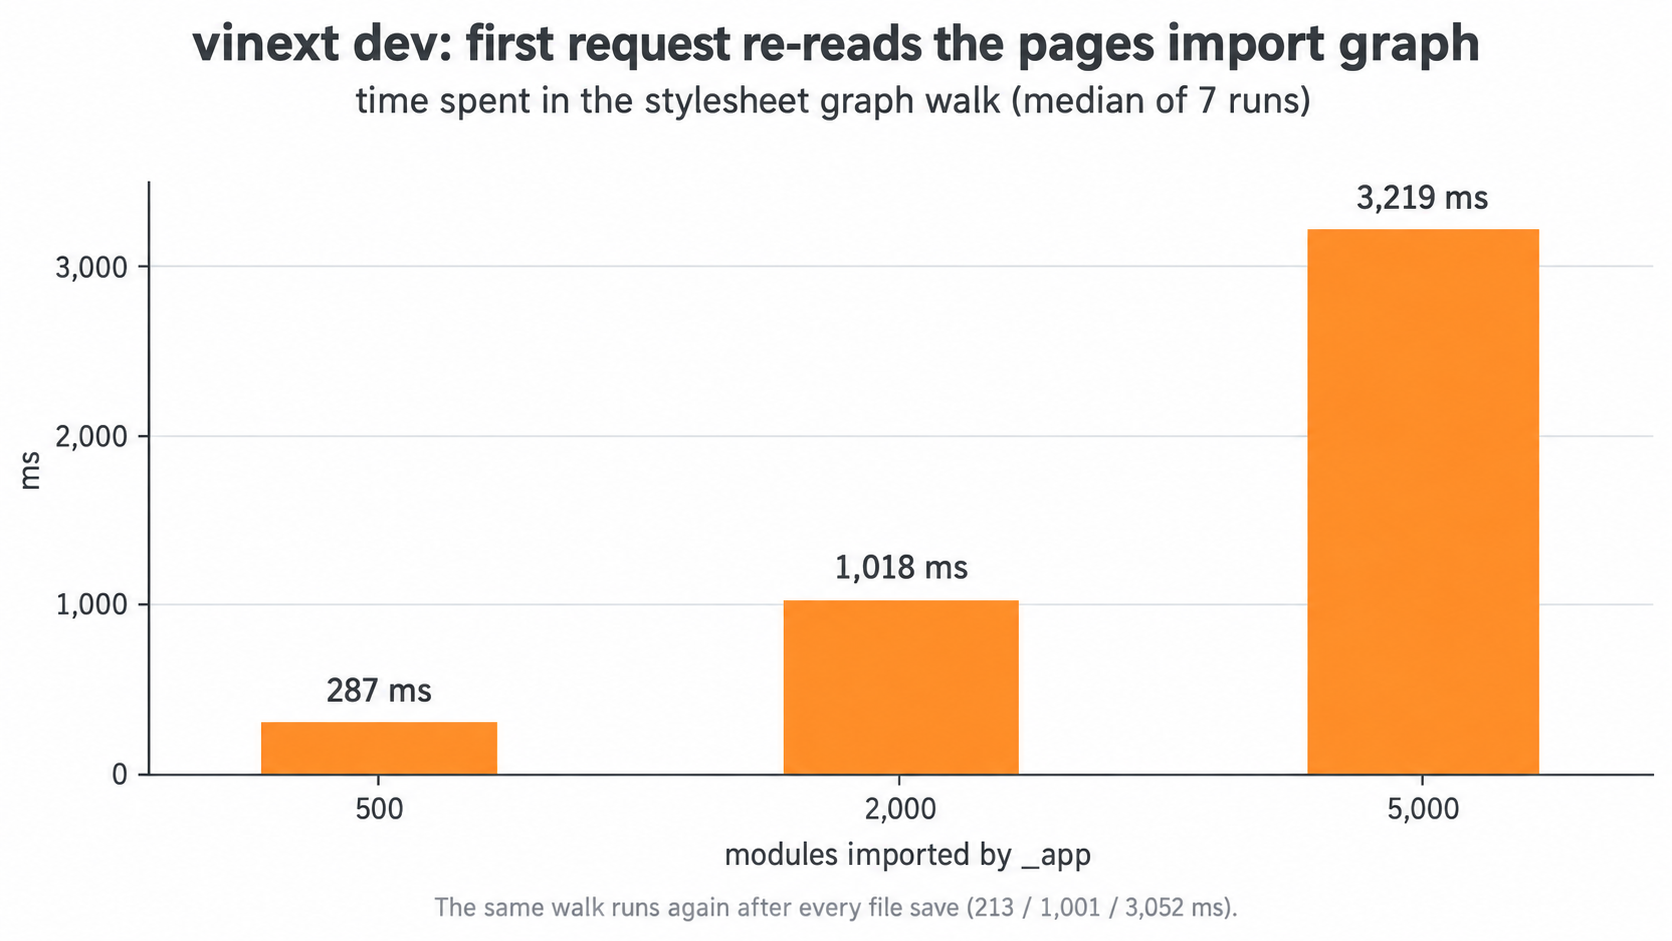
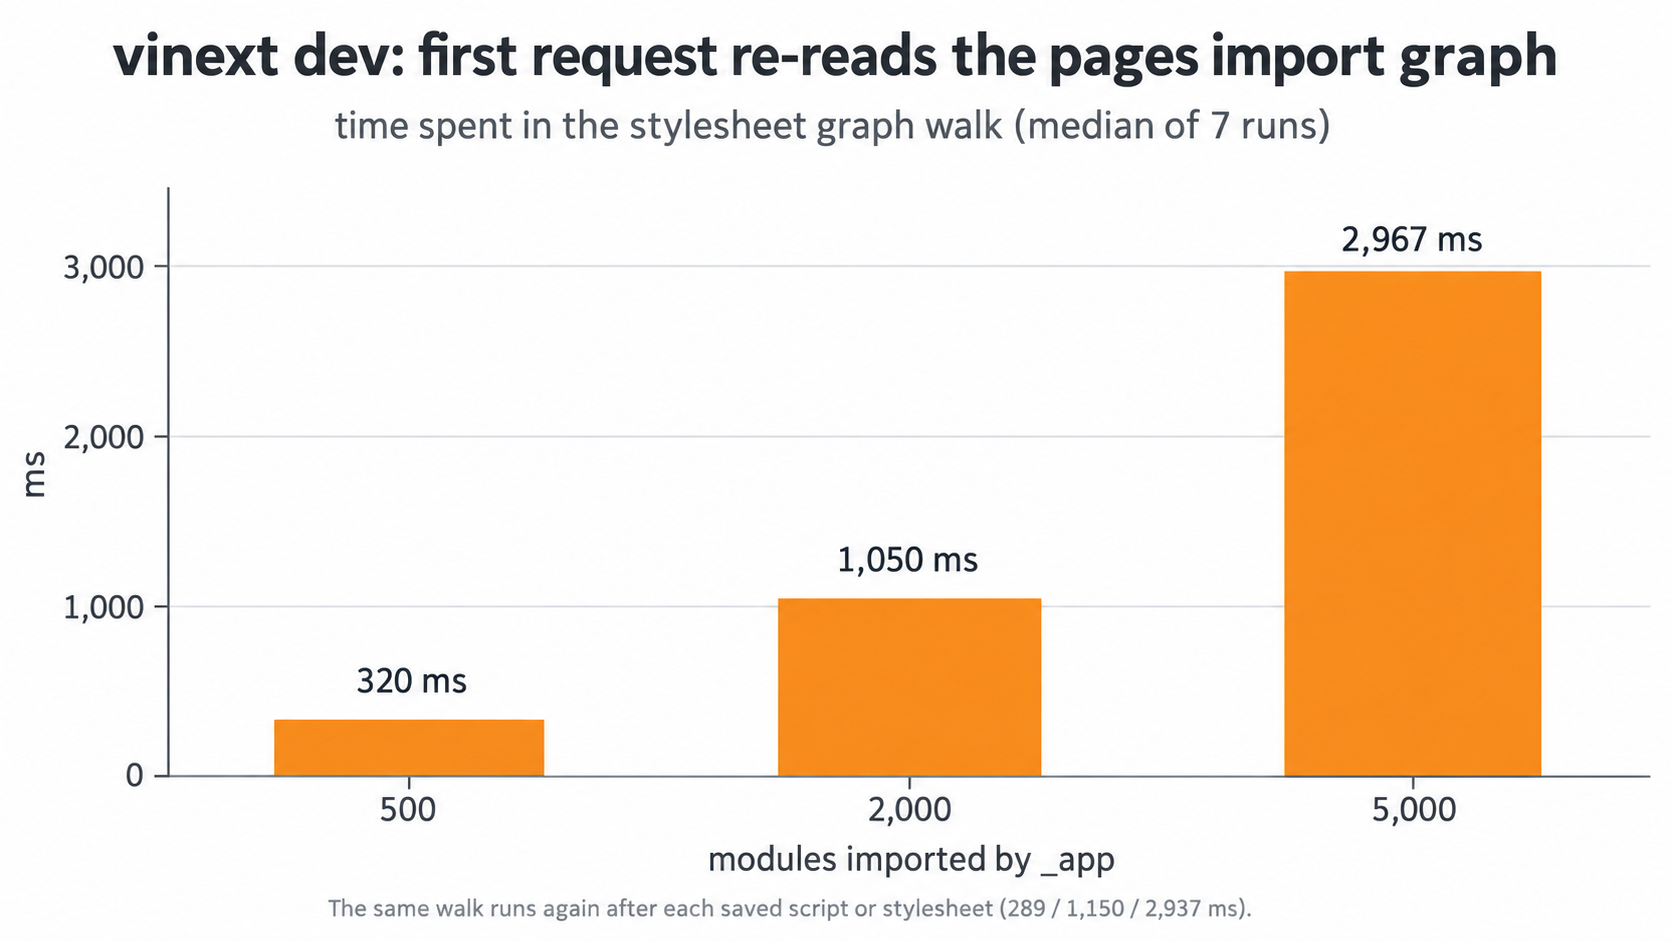
Use the final measurements

diff --git a/README.md b/README.md
@@ -2,9 +2,9 @@
 
 **In dev, vinext 1.0.0 reads, parses and resolves every module that `_app` and the pages import, to find their stylesheets.**
 Vite transforms the same modules for the request and records their imports in its module graph.
-With 5,000 modules the walk takes 3.2 s of the first request. It runs again after each saved script or stylesheet.
+With 5,000 modules the walk takes 3.0 s of the first request. It runs again after each saved script or stylesheet.
 
-![Graph walk time for 500, 2,000 and 5,000 modules: 287 ms, 1,018 ms and 3,219 ms](docs/scaling.png)
+![Graph walk time for 500, 2,000 and 5,000 modules: 320 ms, 1,050 ms and 2,967 ms](docs/scaling.png)
 
 ## Repro
 
@@ -33,21 +33,21 @@ Median of 7 runs. Each run starts a new dev server with a warm `node_modules/.vi
 
 | modules | files read by the walk | walk, first request | walk, after a file save | first HTML | first HTML without the walk |
 |---:|---:|---:|---:|---:|---:|
-| 500 | 502 | 287 ms | 213 ms | 1,970 ms | 1,713 ms |
-| 2,000 | 2,002 | 1,018 ms | 1,001 ms | 7,664 ms | 5,588 ms |
-| 5,000 | 5,002 | 3,219 ms | 3,052 ms | 17,899 ms | 14,395 ms |
+| 500 | 502 | 320 ms | 289 ms | 2,280 ms | 2,035 ms |
+| 2,000 | 2,002 | 1,050 ms | 1,150 ms | 7,559 ms | 6,465 ms |
+| 5,000 | 5,002 | 2,967 ms | 2,937 ms | 19,823 ms | 15,647 ms |
 
 - **walk**: wall time of the `load` hook for `virtual:vinext-pages-client-assets`, which runs the walk.
 - **files read**: `fs.readFileSync` calls made from `collectModuleDependencies`.
 - **without the walk**: the same `load` hook returns the metadata without `ssrManifest`. This is only an experiment to size the cost. In this app the HTML then has the same stylesheet links in the same order.
 
-A CPU profile of the first request (`--profile`, 5,000 modules) shows 1,518 ms of synchronous work under `collectModuleDependencies`:
+A CPU profile of the first request (`--profile`, 5,000 modules) shows 1,553 ms of synchronous work under `collectModuleDependencies`:
 
 | what | ms |
 |---|---:|
-| `fs.readFileSync` | 1,013 |
-| `parseAst` | 166 |
-| `resolve` and other | 339 |
+| `fs.readFileSync` | 910 |
+| `parseAst` | 176 |
+| `resolve` and other | 468 |
 
 The rest of the walk's wall time is spent waiting for `this.resolve`.
 
@@ -71,4 +71,4 @@ For the same request, [`collectPagesDevInitialStylesheetHeadHTML`](https://githu
 ## Environment
 
 vinext 1.0.0, vite 8.3.0, rolldown 1.2.12, react 19.2.8, Node 24.13.0, macOS 26.6, Apple M1 Max.
-Other processes ran on the machine during the runs (load average 7 to 65), so absolute times are noisy. The number of files read is the same in every run.
+Background processes kept the load average at 10 to 44 (median 22) during the runs, so absolute times are noisy. The number of files read is the same in every run.
